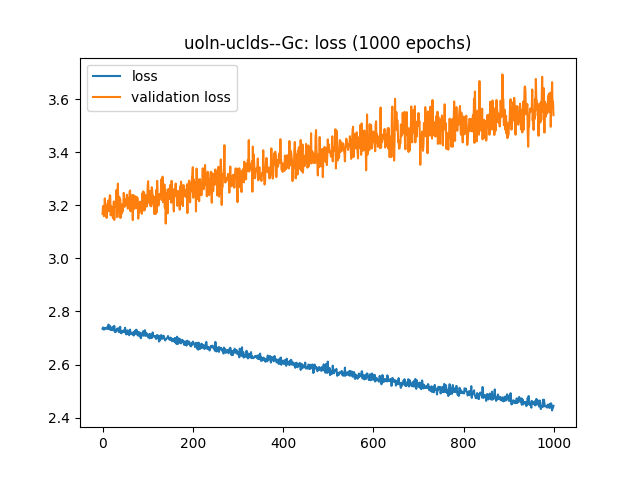
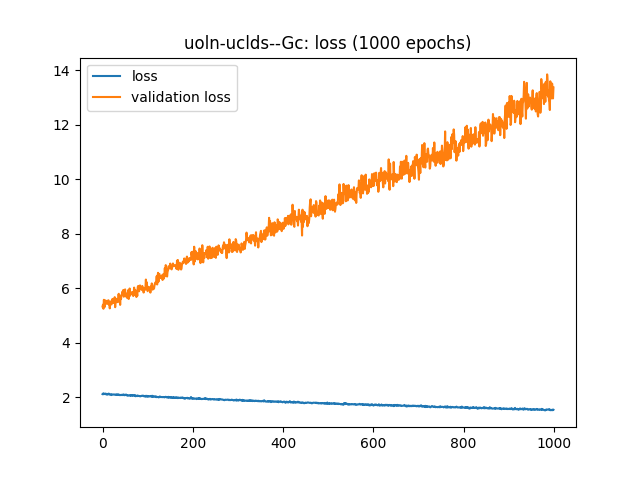
updated experiements

diff --git a/src/experiments.py b/src/experiments.py
@@ -8,16 +8,6 @@ from pathlib import Path
 from models_dict import possible_inputs, possible_outputs
 from root_locus_nn import RootLocusNN
 
-# def plot(subplotShape, data, keys, outputName):
-#     fig, axs = plt.subplots(subplotShape[0], subplotShape[1])
-#     for i in range(subplotShape[0]):
-#         for j in range(subplotShape[1]):
-#             axs[i][j].hist(data[keys[i+j]], bins=10)
-#             axs[i][j].set_title(keys[i+j])
-#             if i+1!=subplotShape[0]:
-#                 axs[i][j].get_xaxis().set_ticks([])
-
-#     plt.savefig("./general/distribution_"+outputName)
 
 def plot(title, column, bins, outputName, outputFolder):
     plt.hist(column, bins=bins)
@@ -36,7 +26,7 @@ def get_best_distribution(data):
         params[dist_name] = param
         # Applying the Kolmogorov-Smirnov test
         D, p = st.kstest(data, dist_name, args=param)
-        print("p value for "+dist_name+" = "+str(p))
+        # print("p value for "+dist_name+" = "+str(p))
         dist_results.append((dist_name, p))
 
     # select the best fitted distribution
@@ -45,7 +35,7 @@ def get_best_distribution(data):
 
     print("Best fitting distribution: "+str(best_dist))
     print("Best p value: "+ str(best_p))
-    print("Parameters for the best fit: "+ str(params[best_dist]))
+    print("Parameters for the best fit: "+ str(params[best_dist])+"\n")
 
     return best_dist, best_p, params[best_dist]
 
@@ -53,6 +43,8 @@ def distribution_experiment(data):
     input_keys = []
     for input in possible_inputs:
         input_keys += input["keys"]
+    input_keys += ["PO max", "Ts max"]
+    print(input_keys)
     input_keys = list(set(input_keys))
     input_keys.sort()
     for key in input_keys:
@@ -61,6 +53,7 @@ def distribution_experiment(data):
             bins=25,
             outputName="input_"+key.replace(" ", ""), 
             outputFolder="distribution/inputs/")
+        print("KEY: "+key)
         get_best_distribution(data[key])
     
     output_keys = []
@@ -74,37 +67,36 @@ def distribution_experiment(data):
             bins=25,
             outputName="output_"+key.replace(" ", ""), 
             outputFolder="distribution/outputs/")
+        print("KEY: "+key)
         get_best_distribution(data[key])
 
 def epochs_experiment(data):
     epoch_list = [5, 10, 20, 50, 100, 200, 500, 1000, 2000]
-    for input in possible_inputs:
-        for output in possible_outputs:
-            model_name = input["name"]+"--"+output["name"]
-            nn = RootLocusNN(
-                model_name=model_name,
-                data=data, 
-                input_keys=input["keys"],
-                output_keys=output["keys"],
-                scale=True)
-            nn.define_model()
+    model_name = "uoln-uclds--Gc"
+    nn = RootLocusNN(
+        model_name=model_name,
+        data=data, 
+        input_keys=["uoln", "ucld 0", "ucld 1", "ucld 2", "ucld 3"],
+        output_keys=["Gc-z", "Gc-p", "Gc-k"],
+        scale=True)
+    nn.define_model()
             
-            for epoch in epoch_list:
-                epoch_folder = "./experiments/epochs/"+model_name+"/"+str(epoch)
-                Path(epoch_folder).mkdir(parents=True, exist_ok=True)
-                history = nn.model.fit(nn.x_train, nn.y_train, validation_data=(nn.x_test,nn.y_test), batch_size=32, epochs=epoch)
-                for key in ["loss", "accuracy"]:
-                    plt.title(model_name +": "+ key +" ("+str(epoch)+" epochs)")
-                    plt.plot(history.history[key], label=key)
-                    plt.plot(history.history["val_"+key], label="validation "+key)
-                    plt.legend()
-                    plt.savefig(epoch_folder+"/"+key)
-                    plt.close()
+    for epoch in epoch_list:
+        epoch_folder = "./experiments/epochs/"+model_name+"/"+str(epoch)
+        Path(epoch_folder).mkdir(parents=True, exist_ok=True)
+        history = nn.model.fit(nn.x_train, nn.y_train, validation_data=(nn.x_test,nn.y_test), batch_size=32, epochs=epoch)
+        for key in ["loss", "accuracy"]:
+            plt.title(model_name +": "+ key +" ("+str(epoch)+" epochs)")
+            plt.plot(history.history[key], label=key)
+            plt.plot(history.history["val_"+key], label="validation "+key)
+            plt.legend()
+            plt.savefig(epoch_folder+"/"+key)
+            plt.close()
 
             
 def main():
     data = read_csv("data/data.csv")
-    # distribution_experiment(data, possible_inputs, possible_outputs)
+    # distribution_experiment(data)
     epochs_experiment(data)
 
 

diff --git a/src/models_dict.py b/src/models_dict.py
@@ -4,16 +4,8 @@ possible_inputs = [
         "keys": ["uoln", "uold 0", "uold 1", "uold 2"]
     },
     {
-        "name": "uolds",
-        "keys": ["uold 0", "uold 1", "uold 2"]
-    },
-    {
         "name": "uoln-uclds",
         "keys": ["uoln", "ucld 0", "ucld 1", "ucld 2", "ucld 3"]
-    },
-    {
-        "name": "uclds",
-        "keys": ["ucld 0", "ucld 1", "ucld 2", "ucld 3"]
     },
     {
         "name": "uclps",
@@ -29,18 +21,6 @@ possible_outputs = [
     {
         "name": "Gc",
         "keys": ["Gc-z", "Gc-p", "Gc-k"]
-    },
-    # {
-    #     "name": "ccln-cclds",
-    #     "keys": ["ccln", "ccld 0", "ccld 1", "ccld 2", "ccld 3"]
-    # },
-    # {
-    #     "name": "cclds",
-    #     "keys": ["ccld 0", "ccld 1", "ccld 2", "ccld 3"]
-    # },
-    # {
-    #     "name": "cclps",
-    #     "keys": ["cclp 0 -r", "cclp 1 -r", "cclp 1 -i", "cclp 2 -r", "cclp 2 -i"]
-    # }
+    }
 ]
 

diff --git a/src/root_locus_nn.py b/src/root_locus_nn.py
@@ -9,7 +9,8 @@ from tensorflow.python.keras.layers import Dense
 class RootLocusNN:
     def __init__(self, model_name, data, input_keys, output_keys, scale):
         self.model_name = model_name
-        self.input_keys = input_keys
+        self.input_keys = ["PO max", "Ts max"]
+        self.input_keys += input_keys
         self.output_keys = output_keys
         self.set_data(data, scale)
     
